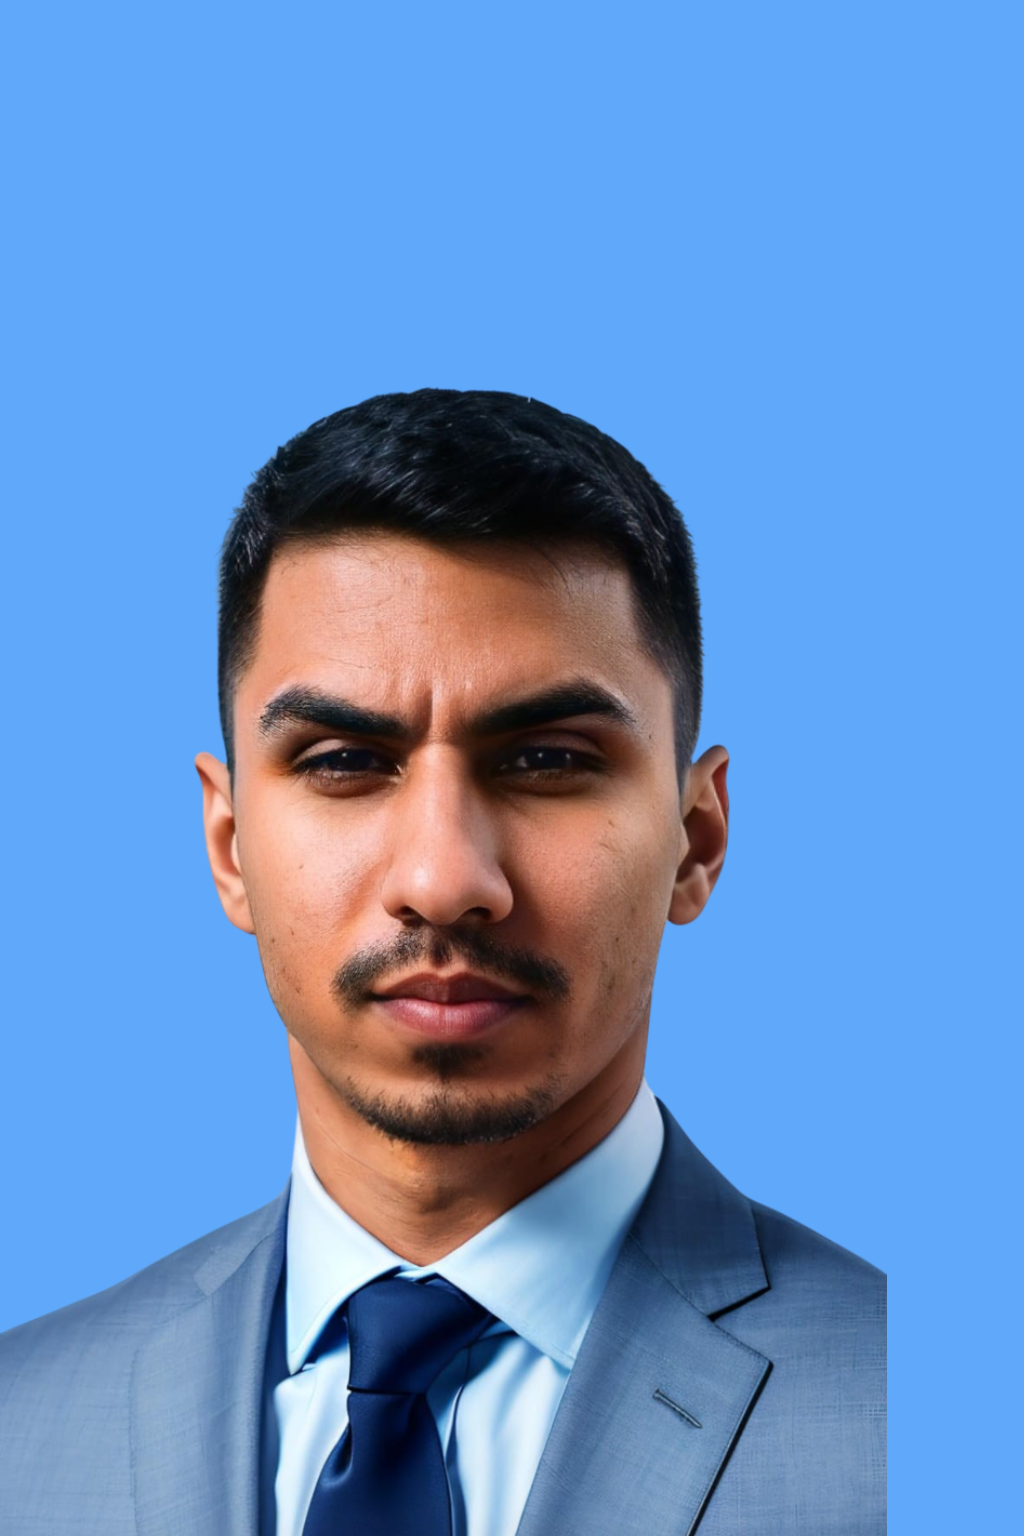
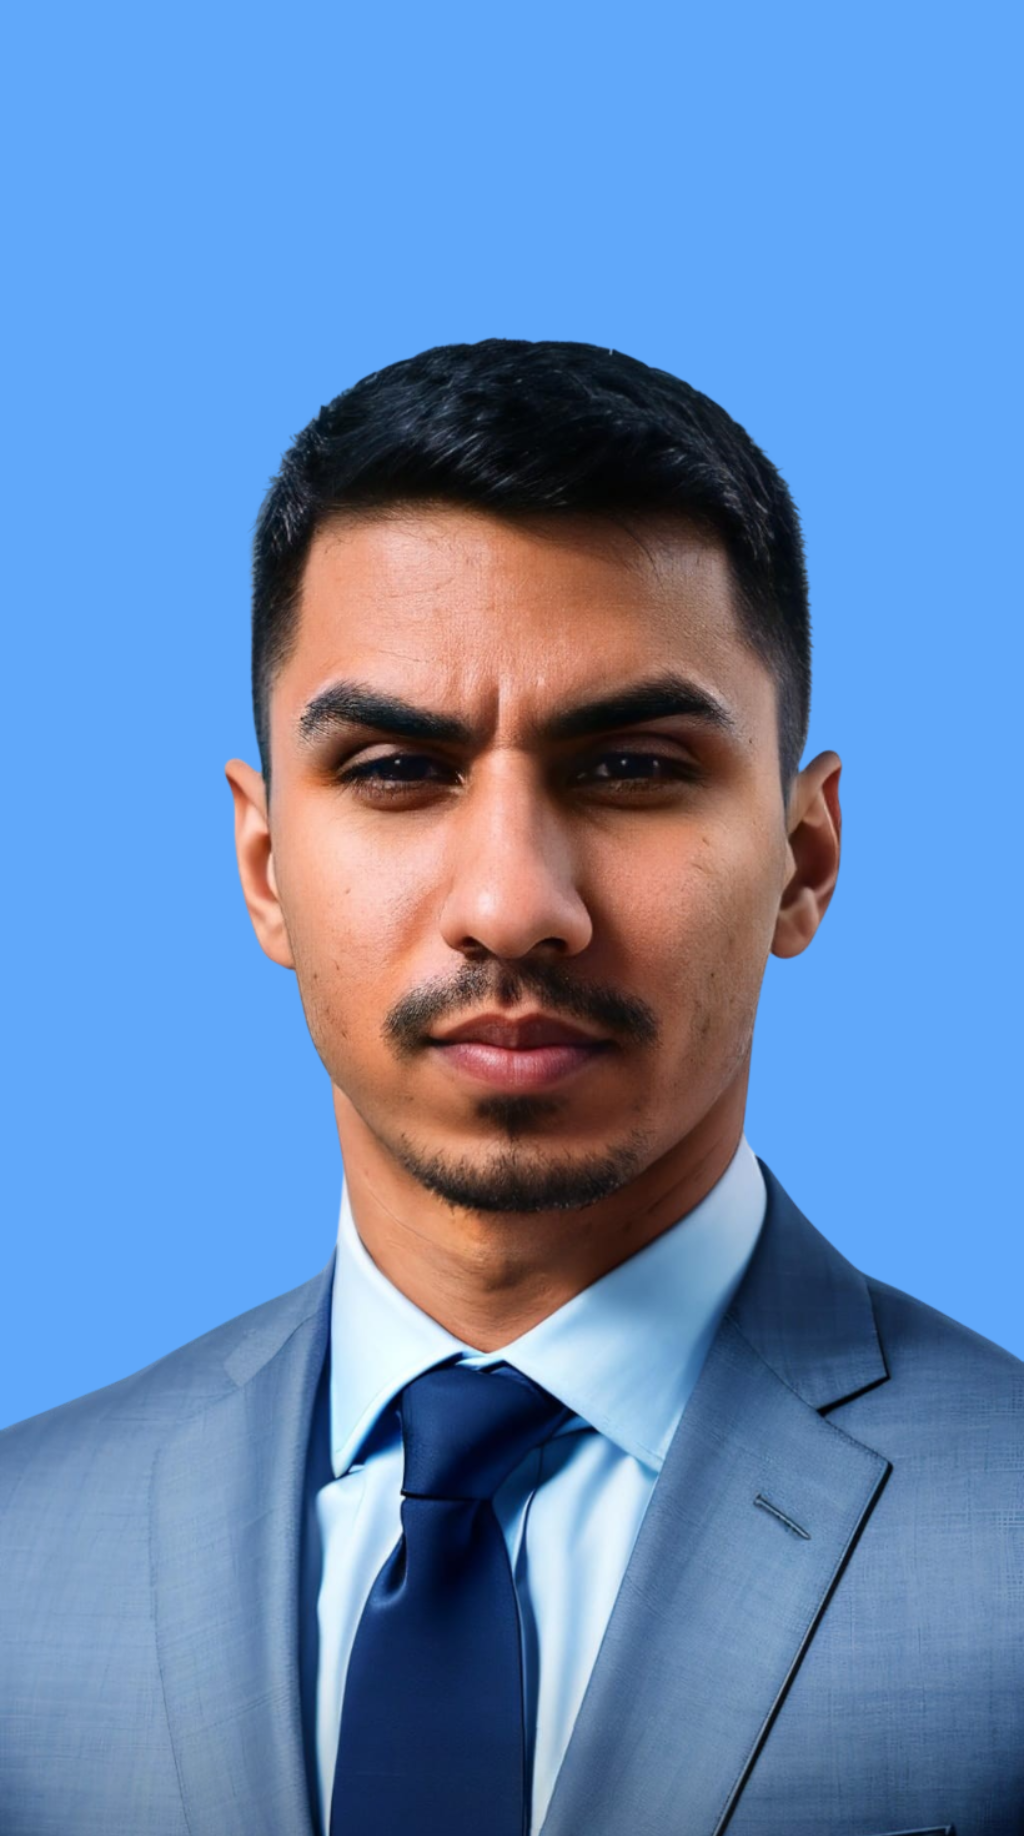
NEW

diff --git a/index.html b/index.html
@@ -1067,7 +1067,7 @@
             <!-- Background -->
             <div class="background-bg">
                 <div class="background-filter">
-                    <div class="background-img" style="background-image: url(assets/wp-content/uploads/2023/04/Webster-Media4.png);"></div>
+                    <div class="background-img" style="background-image: url(assets/wp-content/uploads/2023/04/Webster-Media.png);"></div>
                 </div>
 
             </div>

diff --git a/assets/wp-content/themes/myour/style.css b/assets/wp-content/themes/myour/style.css
@@ -1628,11 +1628,13 @@ blockquote {
     }
 }
 
-@media (max-width: 720px) {
+@media (max-width: 850px) {
     .background-bg {
         margin: 0;
         height: 95vh;
     }
+
+    
 
     .background-bg > img {
         height: 30vh;
